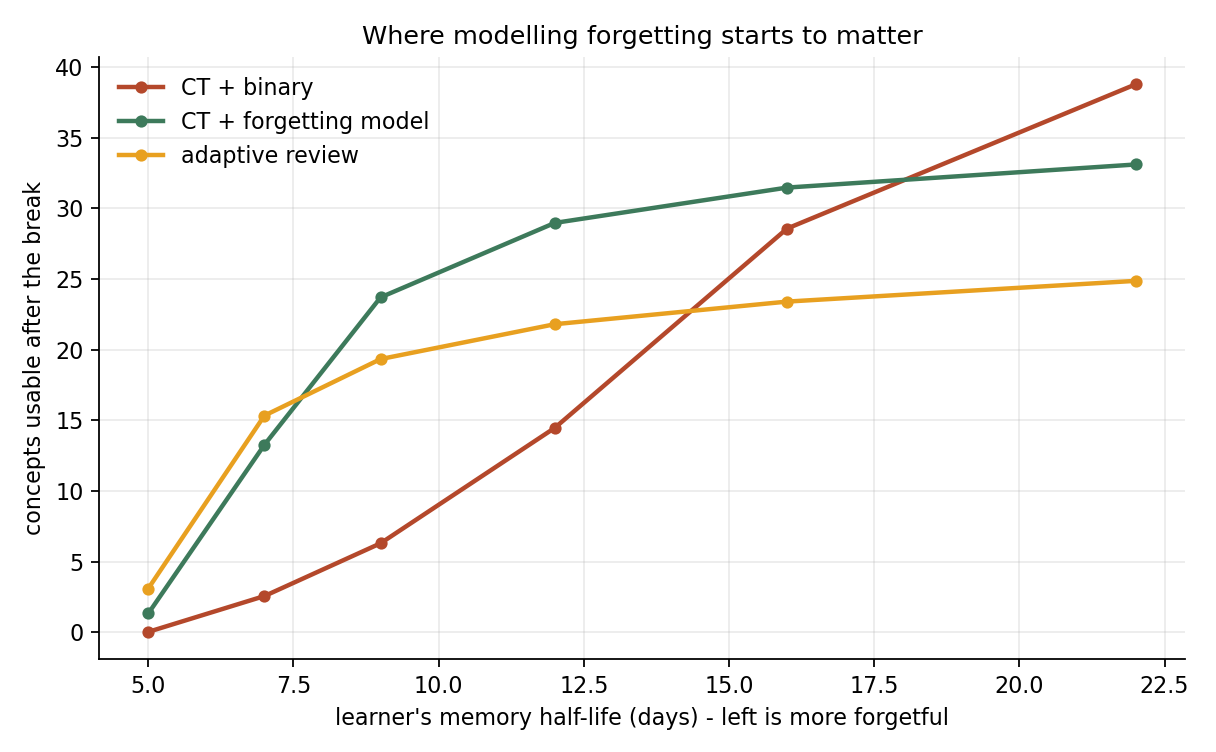
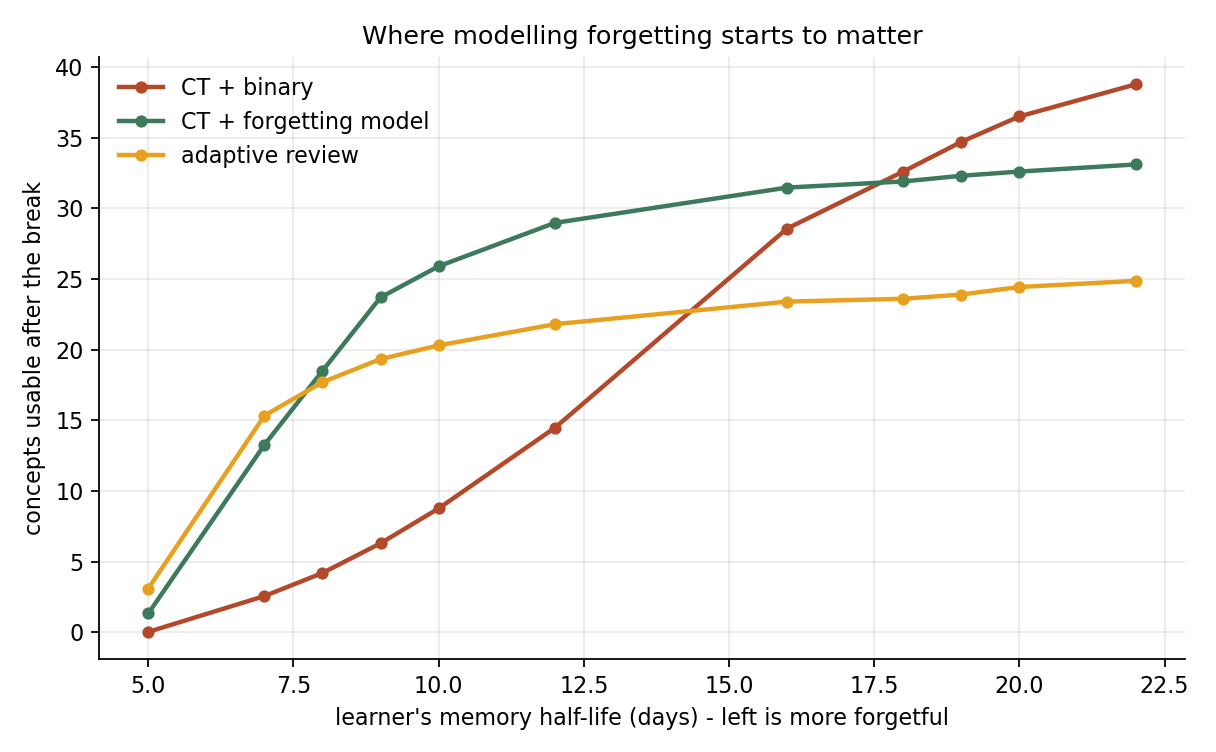
Experiment 4: add five half-lives to resolve the crossovers
The sweep grid was 5, 7, 9, 12, 16, 22, which located the two crossover
points only as "between 7 and 9" and "between 16 and 22". Adding 8, 10,
18, 19 and 20 brackets both.

With the finer grid the ordering on retained_usable flips at 8d
(adaptive review -> CT + forgetting model) and again at 18d
(CT + forgetting model -> CT + binary). A paired sign test reads 10/30
at both, so these are genuine ties rather than marginal calls, and the
three regimes can now be quoted: below ~8 days spaced review wins,
between 8 and 18 days modelling forgetting wins, above ~18 days
CurriculumTutor's original binary assumption wins.

Adds 15 rows to results.csv. No existing row changes, and figures 1-5
regenerate byte-identically. Runtime goes from ~12s to ~16s.

diff --git a/run_experiments.py b/run_experiments.py
@@ -158,7 +158,13 @@ def experiment4(cur):
     print("\n" + "=" * 74)
     print("EXPERIMENT 4  forgetting-rate sweep")
     print("=" * 74)
-    half_lives = [5, 7, 9, 12, 16, 22]
+    # 8, 10, 18, 19 and 20 bracket the two crossovers. The original grid
+    # (5, 7, 9, 12, 16, 22) only located them somewhere between 7 and 9 and
+    # between 16 and 22, which is too loose to quote. With these points the
+    # ordering flips at 8d (adaptive review -> forgetting model) and at 18d
+    # (forgetting model -> binary); a paired sign test on retained_usable
+    # reads 10/30 at both, i.e. a genuine tie rather than a marginal call.
+    half_lives = [5, 7, 8, 9, 10, 12, 16, 18, 19, 20, 22]
     conds = [("curriculum_tutor", "binary", "CT + binary"),
              ("curriculum_tutor", "continuous_forget",
               "CT + forgetting model"),
